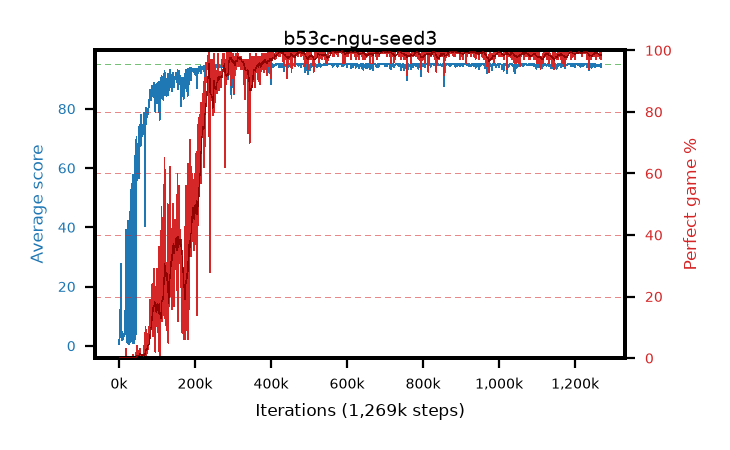
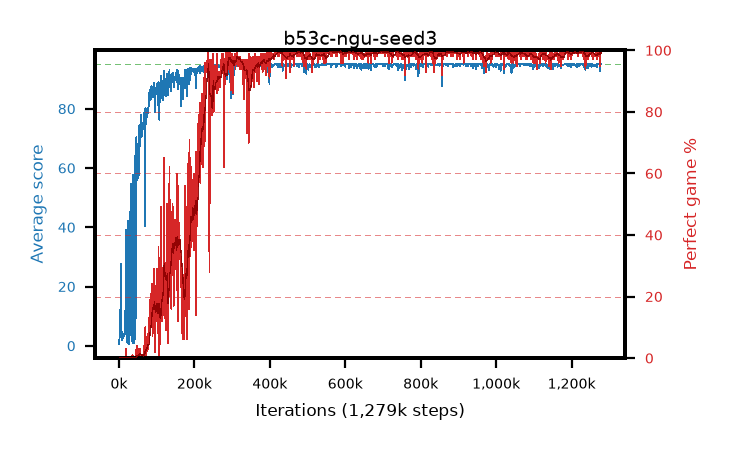
live pictures of 4 arm(s)

diff --git a/results/b53a-ngu-seed1/b53a-ngu-seed1.md b/results/b53a-ngu-seed1/b53a-ngu-seed1.md
@@ -1,6 +1,6 @@
 # b53a-ngu-seed1
 
-step **1,279,000** · 1279 evals · trailing **94.66** · peak **94.96** @643,000 · sef **78.0** · best30 **99.7** @643,000
+step **1,289,000** · 1289 evals · trailing **94.68** · peak **94.96** @643,000 · sef **78.2** · best30 **99.7** @643,000
 
 ## Config
 
@@ -80,15 +80,15 @@ step **1,279,000** · 1279 evals · trailing **94.66** · peak **94.96** @643,00
 | 2000 | 8.43 | 4.84 | 0.0 | 21.0 | 7.201 | 0.0 | 0.4 |
 | 3000 | 8.52 | 6.07 | 0.0 | 26.0 | 5.525 | 0.0 | 0.4 |
 | ... | ... | ... | ... | ... | ... | ... | ... |
-| 1268000 | 94.66 | 94.63 | 68.0 | 95.0 | 190.309 | 97.0 | 0.4 |
-| 1269000 | 94.91 | 94.63 | 89.0 | 95.0 | 191.52 | 98.0 | 0.4 |
-| 1270000 | 94.57 | 94.62 | 54.0 | 95.0 | 191.233 | 98.0 | 0.4 |
-| 1271000 | 95.0 | 94.63 | 95.0 | 95.0 | 193.696 | 100.0 | 0.4 |
-| 1272000 | 94.84 | 94.63 | 79.0 | 95.0 | 192.529 | 99.0 | 0.4 |
-| 1273000 | 94.9 | 94.65 | 85.0 | 95.0 | 192.565 | 99.0 | 0.4 |
-| 1274000 | 94.03 | 94.62 | 7.0 | 95.0 | 189.603 | 97.0 | 0.4 |
-| 1275000 | 94.46 | 94.64 | 63.0 | 95.0 | 190.098 | 97.0 | 0.4 |
-| 1276000 | 94.26 | 94.63 | 40.0 | 95.0 | 189.825 | 97.0 | 0.4 |
-| 1277000 | 94.86 | 94.66 | 84.0 | 95.0 | 191.515 | 98.0 | 0.4 |
 | 1278000 | 94.91 | 94.66 | 86.0 | 95.0 | 192.569 | 99.0 | 0.4 |
 | 1279000 | 95.0 | 94.66 | 95.0 | 95.0 | 193.707 | 100.0 | 0.4 |
+| 1280000 | 95.0 | 94.66 | 95.0 | 95.0 | 193.71 | 100.0 | 0.4 |
+| 1281000 | 95.0 | 94.68 | 95.0 | 95.0 | 193.681 | 100.0 | 0.4 |
+| 1282000 | 94.25 | 94.65 | 34.0 | 95.0 | 190.862 | 98.0 | 0.4 |
+| 1283000 | 94.98 | 94.66 | 93.0 | 95.0 | 192.675 | 99.0 | 0.4 |
+| 1284000 | 95.0 | 94.66 | 95.0 | 95.0 | 193.7 | 100.0 | 0.4 |
+| 1285000 | 94.85 | 94.66 | 80.0 | 95.0 | 192.532 | 99.0 | 0.4 |
+| 1286000 | 94.69 | 94.67 | 76.0 | 95.0 | 191.314 | 98.0 | 0.4 |
+| 1287000 | 95.0 | 94.67 | 95.0 | 95.0 | 193.71 | 100.0 | 0.4 |
+| 1288000 | 95.0 | 94.69 | 95.0 | 95.0 | 193.697 | 100.0 | 0.4 |
+| 1289000 | 94.74 | 94.68 | 69.0 | 95.0 | 192.462 | 99.0 | 0.4 |

diff --git a/results/b53c-ngu-seed3/b53c-ngu-seed3.md b/results/b53c-ngu-seed3/b53c-ngu-seed3.md
@@ -1,6 +1,6 @@
 # b53c-ngu-seed3
 
-step **1,269,000** · 1269 evals · trailing **94.7** · peak **94.93** @574,000 · sef **82.0** · best30 **99.6** @585,000
+step **1,279,000** · 1279 evals · trailing **94.72** · peak **94.93** @574,000 · sef **82.1** · best30 **99.6** @585,000
 
 ## Config
 
@@ -80,15 +80,15 @@ step **1,269,000** · 1269 evals · trailing **94.7** · peak **94.93** @574,000
 | 2000 | 6.19 | 3.38 | 0.0 | 14.0 | 2.147 | 0.0 | 0.4 |
 | 3000 | 12.02 | 6.26 | 1.0 | 18.0 | 7.496 | 0.0 | 0.4 |
 | ... | ... | ... | ... | ... | ... | ... | ... |
-| 1258000 | 94.81 | 94.68 | 76.0 | 95.0 | 192.514 | 99.0 | 0.4 |
-| 1259000 | 94.85 | 94.67 | 80.0 | 95.0 | 192.56 | 99.0 | 0.4 |
-| 1260000 | 94.54 | 94.66 | 62.0 | 95.0 | 191.226 | 98.0 | 0.4 |
-| 1261000 | 94.9 | 94.66 | 85.0 | 95.0 | 192.537 | 99.0 | 0.4 |
-| 1262000 | 94.24 | 94.67 | 52.0 | 95.0 | 190.896 | 98.0 | 0.4 |
-| 1263000 | 94.77 | 94.66 | 75.0 | 95.0 | 191.466 | 98.0 | 0.4 |
-| 1264000 | 94.66 | 94.67 | 61.0 | 95.0 | 192.367 | 99.0 | 0.4 |
-| 1265000 | 94.96 | 94.67 | 91.0 | 95.0 | 192.633 | 99.0 | 0.4 |
-| 1266000 | 94.44 | 94.67 | 50.0 | 95.0 | 191.137 | 98.0 | 0.4 |
-| 1267000 | 93.95 | 94.7 | 44.0 | 95.0 | 189.571 | 97.0 | 0.4 |
 | 1268000 | 95.0 | 94.7 | 95.0 | 95.0 | 193.718 | 100.0 | 0.4 |
 | 1269000 | 95.0 | 94.7 | 95.0 | 95.0 | 193.672 | 100.0 | 0.4 |
+| 1270000 | 95.0 | 94.7 | 95.0 | 95.0 | 193.71 | 100.0 | 0.4 |
+| 1271000 | 95.0 | 94.7 | 95.0 | 95.0 | 193.702 | 100.0 | 0.4 |
+| 1272000 | 94.93 | 94.71 | 90.0 | 95.0 | 191.632 | 98.0 | 0.4 |
+| 1273000 | 94.98 | 94.75 | 93.0 | 95.0 | 192.657 | 99.0 | 0.4 |
+| 1274000 | 95.0 | 94.75 | 95.0 | 95.0 | 193.713 | 100.0 | 0.4 |
+| 1275000 | 92.57 | 94.7 | 6.0 | 95.0 | 186.203 | 95.0 | 0.4 |
+| 1276000 | 95.0 | 94.71 | 95.0 | 95.0 | 193.711 | 100.0 | 0.4 |
+| 1277000 | 94.98 | 94.71 | 93.0 | 95.0 | 192.692 | 99.0 | 0.4 |
+| 1278000 | 95.0 | 94.71 | 95.0 | 95.0 | 193.724 | 100.0 | 0.4 |
+| 1279000 | 95.0 | 94.72 | 95.0 | 95.0 | 193.678 | 100.0 | 0.4 |
